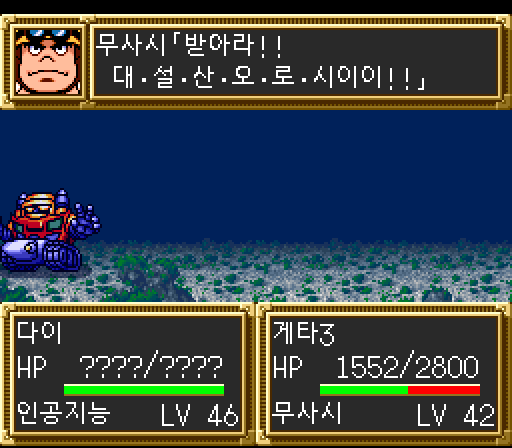
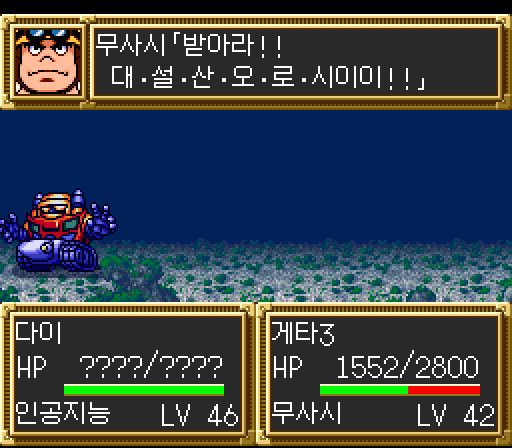
v0.9.1: 대사·메뉴 한글 글꼴을 MonaS12로 교체, 핀펀넬→핀판넬
- 12px 한글 글꼴을 도트 글꼴 MonaS12(Monad ABXY, OFL 1.1)로 교체
  (스테이지 제목·타이틀 로고는 나눔고딕·나눔스퀘어 그대로)
- 무기 이름 핀펀넬→핀판넬, 펀넬→판넬
- README(한·일)·배포 README.txt·OFL.txt 글꼴 표기와 결과 ROM 해시 갱신, 스크린샷 다시 찍음
- 전체 대사 출력 검증 줄 넘침 0건

Generated automatically using Claude (AI model).

diff --git a/build/kofont.py b/build/kofont.py
@@ -6,8 +6,8 @@ Index 0..2349 = KS X 1001 hangul in KS order.
 Glyph format = original kanji format: 32 bytes, left 8x16 column then right 8x16 column,
 1bpp, drawn area rows 2..13, columns 0..11.
 
-Default font: NanumGothic 12px (SIL Open Font License 1.1), rendered 1-bit with FreeType
-hinting. Ink is kept in rows 1..14 (most glyphs sit in rows 2..13 like the original kanji).
+Default font: MonaS12 12px (Monad ABXY, SIL Open Font License 1.1), a pixel font: rendered
+1-bit (identical to 10x supersampling for this font; v0.9 used NanumGothic). Ink is kept in rows 1..14 (most glyphs sit in rows 2..13 like the original kanji).
 """
 import os
 from PIL import Image, ImageDraw, ImageFont
@@ -36,7 +36,9 @@ def code_bytes(i):
     return bytes([PREFIX[i >> 8], i & 0xFF])
 
 
-DEFAULT_FONT = os.path.join(os.environ.get('SRW3_FONTDIR') or os.path.join(os.environ.get('LOCALAPPDATA', ''), 'Microsoft/Windows/Fonts'), 'NanumGothic.ttf')  # SRW3_FONTDIR overrides
+REPO = os.path.dirname(os.path.dirname(os.path.abspath(__file__)))
+# MonaS12 (Monad ABXY, SIL OFL 1.1, release 2026.10.09: MonaFont-ttf.zip -> MonaS/01 Main/MonaS12.ttf)
+DEFAULT_FONT = os.environ.get('SRW3_MONAS12') or os.path.join(REPO, 'tools', 'fonts', 'mona', 'MonaS', '01 Main', 'MonaS12.ttf')
 
 
 def render_glyph(ch, font, yoff):

diff --git a/README.ja.md b/README.ja.md
@@ -6,11 +6,11 @@
 
 スーパーファミコン **「第3次スーパーロボット大戦」**（1993）のセリフ、メニュー、ステージタイトル、タイトルロゴまでを韓国語に翻訳した非公式ファンパッチ
 
-[![Release](https://img.shields.io/badge/release-v0.9%20beta-c0392b?style=flat-square)](https://github.com/game-patch-ko/srw3-ko/releases)
+[![Release](https://img.shields.io/badge/release-v0.9.1%20beta-c0392b?style=flat-square)](https://github.com/game-patch-ko/srw3-ko/releases)
 [![Platform](https://img.shields.io/badge/platform-SFC%20%2F%20SNES-6b5b95?style=flat-square)](#-パッチの当て方)
 [![Patch](https://img.shields.io/badge/patch-xdelta%20%C2%B7%20IPS-informational?style=flat-square)](#-パッチの当て方)
 [![ROM](https://img.shields.io/badge/ROM-1.5MB%20%E2%86%92%202MB-2e8b57?style=flat-square)](#-仕組み)
-[![Font](https://img.shields.io/badge/font-NanumGothic-03c75a?style=flat-square)](#-フォントとライセンス)
+[![Font](https://img.shields.io/badge/font-MonaS12-03c75a?style=flat-square)](#-フォントとライセンス)
 
 [**ダウンロード**](https://github.com/game-patch-ko/srw3-ko/releases) · [パッチの当て方](#-パッチの当て方) · [不具合の報告](#-不具合の報告) · [仕組み](#-仕組み) · [ビルド方法](#-自分でビルドする) · [権利について](#-権利について)
 
@@ -23,7 +23,7 @@
 | | |
 |---|---|
 | 📝 **ゲーム全体を翻訳** | セリフ、プロローグ・エンディング、パイロット・ユニット・武器名、地形、メニューやウィンドウの文言まで、3,489個の断片を翻訳しました。 |
-| 🔤 **完成形ハングル2,350字** | ROMを2MBに拡張し、KS X 1001の完成形ハングル2,350字をナヌムゴシック12pxで収録しました。字数を削った組み合わせ方式ではありません。 |
+| 🔤 **完成形ハングル2,350字** | ROMを2MBに拡張し、KS X 1001の完成形ハングル2,350字を12pxのドットフォントMonaS12で収録しました。字数を削った組み合わせ方式ではありません。 |
 | 🎬 **グラフィック文字も** | ステージ導入タイトル51個（「제1화 『암운』」＝「第1話『暗雲』」）とタイトルロゴをハングルで描き直しました。 |
 | 🗣 **キャラクターごとの口調** | 十三の関西弁は慶尚道方言に、ギャリソンの丁寧語は「~사옵니다」に、ジャックの英語混じりの口調はそのまま再現しました。 |
 | 📐 **画面幅に合わせた改行** | ゲームの行幅の上限（会話240px、戦闘200px）を実測し、すべてのセリフをその範囲に収めました。 |
@@ -125,8 +125,8 @@ xdelta3 -d -s "Dai-3-Ji Super Robot Taisen (J).smc" srw3_ko.xdelta srw3_ko.smc
 | 項目 | 値 |
 |---|---|
 | サイズ | 2,097,152バイト（2MB） |
-| CRC32 | `AEDB3DCB` |
-| SHA-1 | `c1097046518c36a228a91f820b6d56e8be1d7de2` |
+| CRC32 | `906E0742` |
+| SHA-1 | `e675eb578dc69e16738e1f4683fadb302444835d` |
 
 できあがった `srw3_ko.smc` をエミュレータでそのまま開きます。
 
@@ -189,7 +189,7 @@ flowchart LR
     A[テキストのバイト] --> B{先頭バイトが<br>F0~F2, E8~EF?}
     B -- いいえ --> C[元のかな・記号グリフ]
     B -- はい --> D[フックコード $B0:8025]
-    D --> E[ハングルフォント $B1:8000~<br>ナヌムゴシック12px]
+    D --> E[ハングルフォント $B1:8000~<br>MonaS12 12px]
     E --> F[ハングルを表示]
 ```
 
@@ -197,9 +197,9 @@ flowchart LR
 |---|---|
 | ROMサイズ | 1.5MB → 2MB（LoROM拡張、バンク `$B0~$BF`） |
 | 文字の解釈 | セリフ `$81:85AF`、ウィンドウテキスト `$80:C82D`、文字列出力 `$81:EDF6` の3か所をフック |
-| ハングルフォント | KS X 1001の2,350字、ナヌムゴシック12pxを白黒に変換、`$B1:8000~` |
+| ハングルフォント | KS X 1001の2,350字、ドットフォントMonaS12（12px）を変換、`$B1:8000~` |
 | テキスト配置 | 訳文をバンク `$B4~$BF` に再配置し、セリフブロック表 `$80:D2D7`、名前・ウィンドウレイアウト表 `$80:D277` を書き換え |
-| ステージタイトル | 16×16スプライトフォント（LZ圧縮）をハングルで作り直し、スプライトのまとまり51個を書き直し |
+| ステージタイトル | 16×16スプライトフォント（LZ圧縮）をナヌムゴシック15pxのハングルで作り直し、スプライトのまとまり51個を書き直し |
 | タイトルロゴ | BG2のタイル207個に「제3차 슈퍼로봇대전」を描き直し（ナヌムスクエア ExtraBold） |
 
 <details>
@@ -243,7 +243,7 @@ flowchart TD
 
 | 役割 | 担当 | やったこと |
 |---|---|---|
-| 🧑 **指揮** | 人 | ROM拡張・完成形方式、フォント（ナヌムゴシック）、表記の決定、実プレイとフィードバック |
+| 🧑 **指揮** | 人 | ROM拡張・完成形方式、フォントの選定（MonaS12）、表記の決定、実プレイとフィードバック |
 | 🧠 **統括** | Claude | 65816のリバースエンジニアリング、フック・フォント・グラフィックのパッチ、抽出・挿入ツール、翻訳のレビュー、自動検証 |
 | ✍ **翻訳** | Claudeのサブエージェント | 翻訳ガイドラインに沿って、セリフをファイルごとに分けて並列翻訳 |
 
@@ -258,7 +258,8 @@ AIが出した訳文をそのまま使ってはいません。タグの順序、
 |---|---|
 | Python 3 | `Pillow` |
 | 元のROM | リポジトリのルートに `Dai-3-Ji Super Robot Taisen (J).smc` |
-| フォント | ナヌムゴシック（`NanumGothic.ttf`）、ナヌムスクエア ExtraBold（`NanumSquareEB.ttf`）。既定ではWindowsのユーザーフォントフォルダから探します。別の場所にある場合は環境変数 `SRW3_FONTDIR` でフォルダを指定 |
+| セリフ・メニューのフォント | [MonaS12](https://github.com/MonadABXY/mona-font) のリリース `2026.10.09` の `MonaFont-ttf.zip` を `tools/fonts/mona/` に展開（`MonaS/01 Main/MonaS12.ttf`）。別の場所なら環境変数 `SRW3_MONAS12` でファイルを指定 |
+| タイトル・ロゴのフォント | ナヌムゴシック（`NanumGothic.ttf`）、ナヌムスクエア ExtraBold（`NanumSquareEB.ttf`）。既定ではWindowsのユーザーフォントフォルダから探します。別の場所にある場合は環境変数 `SRW3_FONTDIR` でフォルダを指定 |
 
 ```bash
 cd build
@@ -294,7 +295,13 @@ xdelta3 -e -9 -s "Dai-3-Ji Super Robot Taisen (J).smc" out/srw3_ko.smc srw3_ko.x
 
 ## 🔤 フォントとライセンス
 
-ハングルのフォントには、[ナヌムゴシック](https://hangeul.naver.com/font)（セリフ・メニュー12px、ステージタイトル15px）とナヌムスクエア ExtraBold（タイトルロゴ）を白黒ビットマップに変換して使っています。どちらもNAVERがSIL Open Font License 1.1で配布しているフォントで、著作権表示とライセンス全文はリリースの `OFL.txt` にあります。
+| 使用箇所 | フォント | 制作 |
+|---|---|---|
+| セリフ・メニュー・名前（12px） | [MonaS12](https://github.com/MonadABXY/mona-font) | Monad ABXY |
+| ステージ導入タイトル（15px） | [ナヌムゴシック](https://hangeul.naver.com/font) | NAVER |
+| タイトルロゴ | ナヌムスクエア ExtraBold | NAVER |
+
+いずれもSIL Open Font License 1.1で配布されているフォントを白黒ビットマップに変換して収録しています。著作権表示とライセンス全文はリリースの `OFL.txt` にあります。v0.9ではセリフ・メニューにもナヌムゴシックを使っていましたが、v0.9.1からドットフォントMonaS12に変更しました。
 
 ## ⚖ 権利について
 
